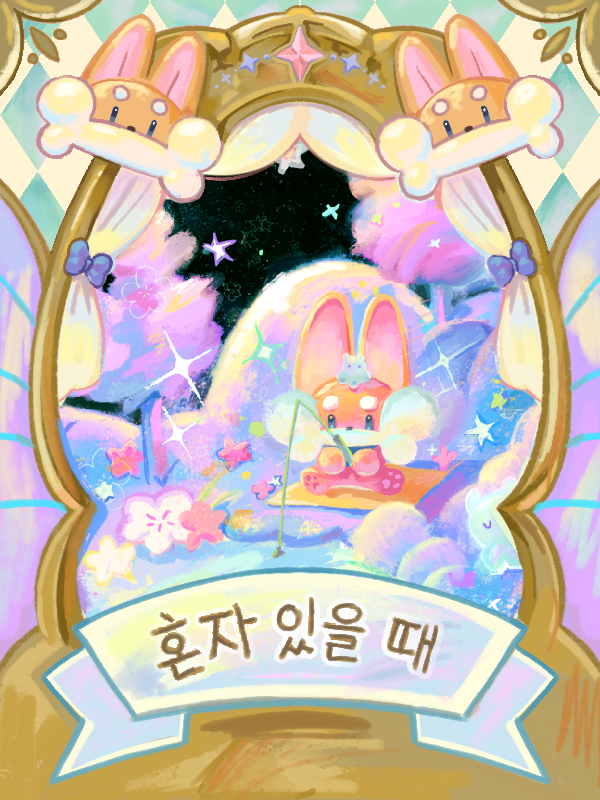
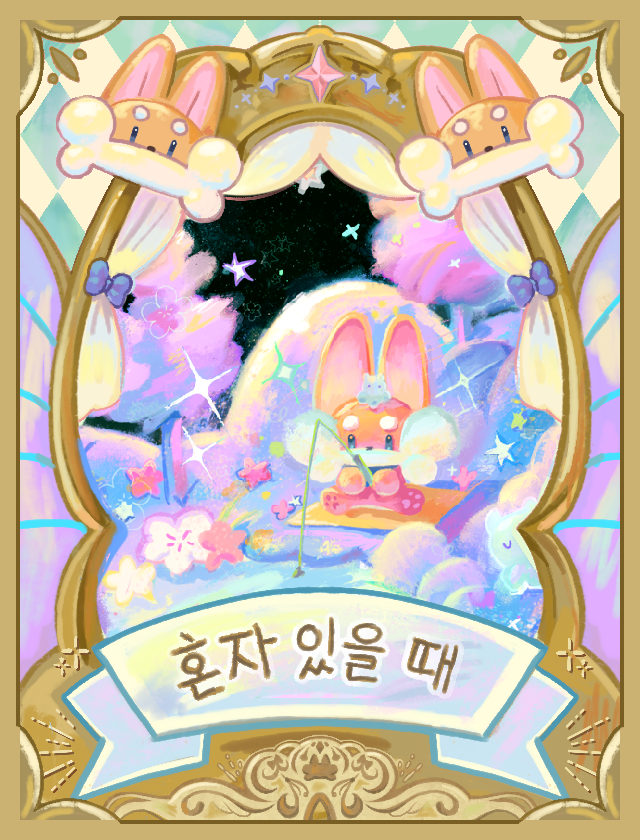
Swap in the framed card artwork and drop the CSS frames
The new card PNGs carry their own border and nameplate, so the paper
frame, tape, corner ornaments and selection glow now double up on the
drawing. Cards move to the 16:21 ratio the artwork is drawn at.

diff --git a/src/components/StageScreen.jsx b/src/components/StageScreen.jsx
@@ -10,8 +10,6 @@ import { useImagesReady } from '../hooks/useImagesReady'
 import {
   PaperGrain,
   Floret,
-  CornerOrnament,
-  MaskingTape,
   FloatingMotes,
 } from './shared/Decorations'
 
@@ -112,7 +110,6 @@ export default function StageScreen({ stageIndex, selections, onSelect, onComple
 
   const stage = stages[stageIndex]
   const style = timeStyles[stage.timeOfDay]
-  const stageNum = String(stage.id).padStart(2, '0')
 
   const handleCardSelected = (cardId) => {
     setSelectedCardId(cardId)
@@ -326,45 +323,19 @@ export default function StageScreen({ stageIndex, selections, onSelect, onComple
                 transition={{ type: 'spring', stiffness: 80, damping: 14 }}
                 className="relative z-10 flex flex-col items-center max-w-md mt-[5vh]"
               >
-                {/* 카드 — 빈티지 표본 카드. 설명을 읽는 8~12초 동안 정지하지 않도록
-                    위쪽 테이프를 지지점 삼아 아주 느리게 흔들린다. */}
-                <div className="ambient-pinned relative bg-[#FBF3E3] p-3 md:p-4
-                                shadow-[0_30px_50px_-20px_rgba(0,0,0,0.6)]
-                                border border-paper-edge">
-                  <PaperGrain />
-
-                  {/* 마스킹 테이프 */}
-                  <MaskingTape className="absolute -top-3 left-8" width={80} rotate={-10} tone="honey" />
-                  <MaskingTape className="absolute -top-3 right-8" width={80} rotate={8} tone="jam" />
-
-                  <CornerOrnament corner="tl" className="absolute top-2 left-2 w-8 h-8 text-ink/40" />
-                  <CornerOrnament corner="tr" className="absolute top-2 right-2 w-8 h-8 text-ink/40" />
-                  <CornerOrnament corner="bl" className="absolute bottom-2 left-2 w-8 h-8 text-ink/40" />
-                  <CornerOrnament corner="br" className="absolute bottom-2 right-2 w-8 h-8 text-ink/40" />
-
-                  {/* 카드 헤더 */}
-                  <div className="relative flex items-center justify-between mb-2 px-1">
-                    <span className="font-script text-base text-jam">
-                      Ingredient №{stageNum}
-                    </span>
-                    <span className="font-display text-[10px] text-ink/50 tracking-[0.25em]">
-                      {stage.element.toUpperCase()}
-                    </span>
-                  </div>
-
-                  {/* 카드 메인 이미지 */}
-                  <div className="w-56 h-72 md:w-72 md:h-[22rem] bg-[#F3E2C2]
-                                  overflow-hidden flex items-center justify-center relative">
-                    {cardImg ? (
-                      <img src={cardImg} alt={card.ingredient}
-                           className="w-full h-full object-cover" />
-                    ) : (
+                {/* 카드 — 테두리·명패까지 원화 한 장에 그려져 있어 별도 액자를 두르지 않는다.
+                    설명을 읽는 8~12초 동안 정지하지 않도록 아주 느리게 흔들린다. */}
+                <div className="ambient-pinned w-56 md:w-72 aspect-[16/21]
+                                shadow-[0_30px_50px_-20px_rgba(0,0,0,0.6)]">
+                  {cardImg ? (
+                    <img src={cardImg} alt={card.ingredient}
+                         draggable={false}
+                         className="w-full h-full object-contain select-none" />
+                  ) : (
+                    <div className="w-full h-full flex items-center justify-center bg-[#F3E2C2]">
                       <span className="text-7xl">{card.ingredientEmoji}</span>
-                    )}
-                    {/* 광택 */}
-                    <div className="absolute inset-0 bg-gradient-to-t from-transparent to-white/15 pointer-events-none" />
-                  </div>
-
+                    </div>
+                  )}
                 </div>
 
                 {/* 해설 명판 — 원화 뼈다귀 프레임 안에 성격 유형 (재료 이름은 카드에 이미 있음) */}

diff --git a/src/components/CardSelect.jsx b/src/components/CardSelect.jsx
@@ -93,10 +93,9 @@ export default function CardSelect({ stage, onSelect, accent = 'honey' }) {
             >
               {/* 고르기 전까지 카드가 손에 들린 듯 미세하게 떠 있는다 — 고민하는 5~15초가
                   이 화면의 실제 체류 시간이라 그 구간이 정지하면 안 된다.
-                  고른 뒤에는 card-glow가 같은 animation 자리를 쓰므로 배타적으로 건다. */}
+                  고른 뒤에는 뒤집기 연출이 주가 되므로 떨림을 멈춘다. */}
               <button
-                className={`perspective w-52 md:w-64 aspect-[3/4] cursor-pointer
-                           ${isSelected && !isFlipped ? 'card-glow' : ''}
+                className={`perspective w-52 md:w-64 aspect-[16/21] cursor-pointer
                            ${selectedId ? '' : 'ambient-bob'}`}
                 style={selectedId ? undefined : {
                   animationDelay: `${i * 1.7}s`,
@@ -108,9 +107,8 @@ export default function CardSelect({ stage, onSelect, accent = 'honey' }) {
               >
                 <div className={`card-inner ${isFlipped ? 'flipped' : ''}`}>
 
-                  {/* ── 뒷면 (선택 전 보이는 면) — 완성형 카드 이미지 ── */}
-                  <div className="card-face bg-[#F3E2C2] relative
-                                  shadow-[0_18px_30px_-16px_rgba(58,36,24,0.55)]">
+                  {/* ── 뒷면 (선택 전 보이는 면) — 완성형 카드 이미지 (테두리까지 원화에 포함) ── */}
+                  <div className="card-face">
                     {backImg ? (
                       <img src={backImg} alt={card.label}
                            className="w-full h-full object-cover" />
@@ -126,8 +124,7 @@ export default function CardSelect({ stage, onSelect, accent = 'honey' }) {
                   </div>
 
                   {/* ── 앞면 (선택 후 뒤집힘) — 재료 카드 ── */}
-                  <div className="card-face card-face-front bg-[#F3E2C2] relative ring-2 ring-jam/40
-                                  shadow-[0_22px_36px_-18px_rgba(58,36,24,0.65)]">
+                  <div className="card-face card-face-front">
                     {frontImg ? (
                       <img src={frontImg} alt={card.ingredient}
                            className="w-full h-full object-cover" />

diff --git a/src/index.css b/src/index.css
@@ -139,16 +139,6 @@ body {
   animation: fadeInUp 0.8s cubic-bezier(0.16, 1, 0.3, 1) forwards;
 }
 
-/* Glow effect for selected card */
-@keyframes glow-pulse {
-  0%, 100% { box-shadow: 0 0 20px rgba(232, 168, 124, 0.4); }
-  50% { box-shadow: 0 0 40px rgba(232, 168, 124, 0.7); }
-}
-
-.card-glow {
-  animation: glow-pulse 2s ease-in-out infinite;
-}
-
 /* ===== Storybook Page Aesthetics ===== */
 
 /* 종이 결 — SVG 노이즈 + 미세한 얼룩 */
